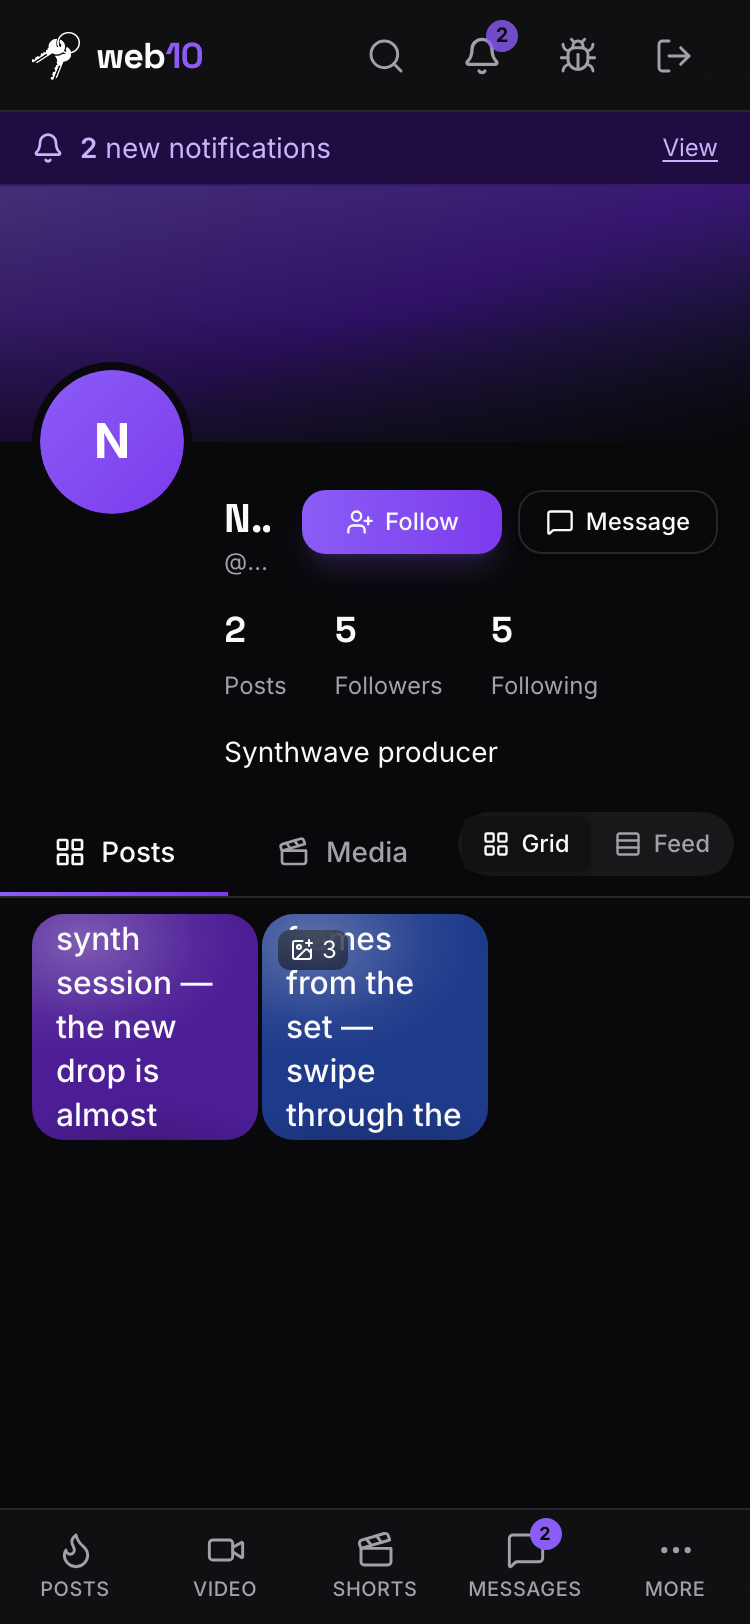
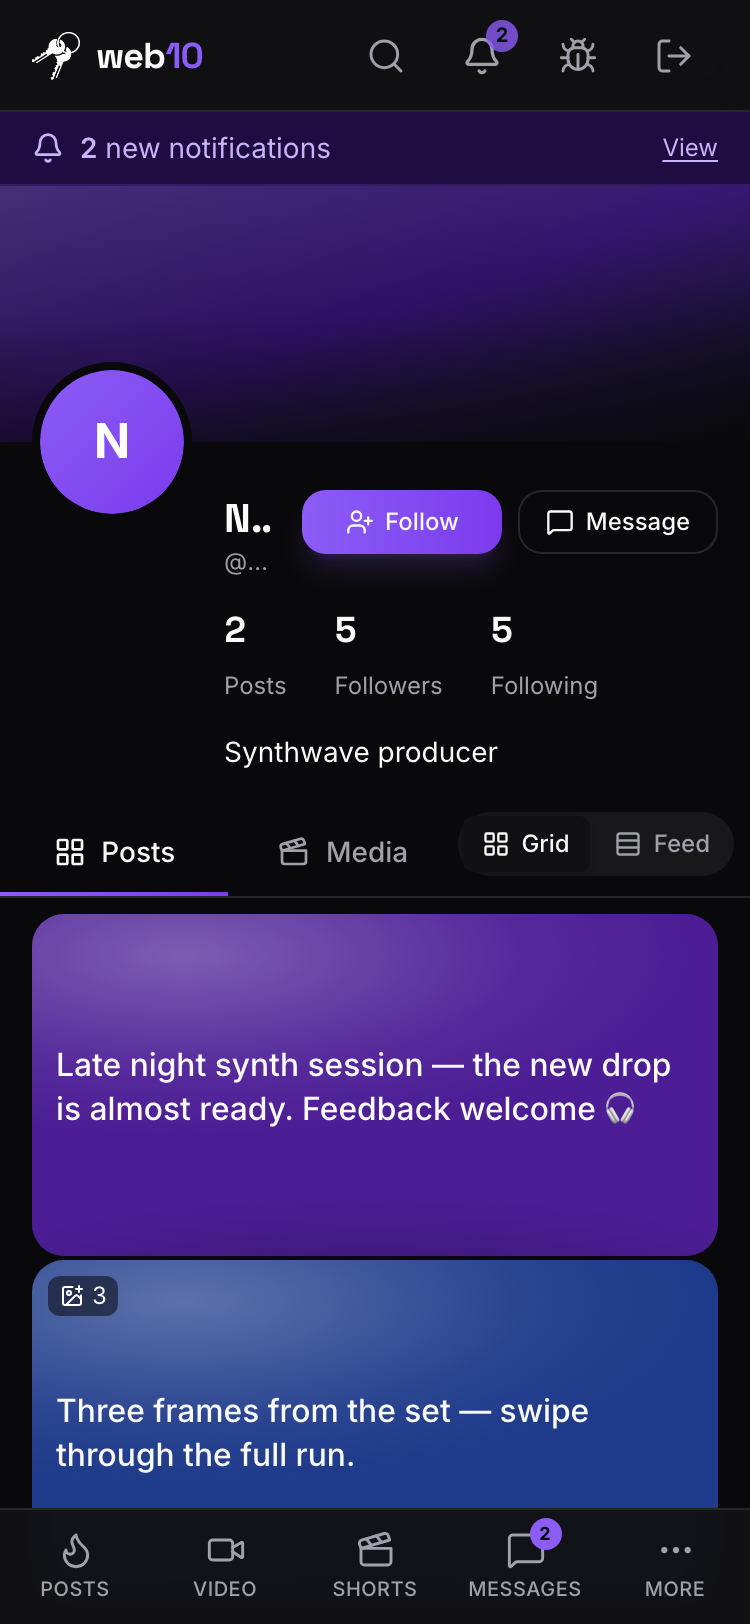
fix(web10-social): text-only profile tiles span the full row on mobile (not a cramped 1/3 square)
A text-only post in the 3-col mobile grid rendered as a ~110px square with 18px text — a car crash. Text-only tiles now span all 3 columns on mobile (col-span-3 sm:col-span-1) with a 2:1 card aspect, so the quote card has room to breathe. Media tiles stay in the 3-up grid. Desktop unchanged.

diff --git a/marketing/web10-social/src/components/Bio/UserProfileScreen.tsx b/marketing/web10-social/src/components/Bio/UserProfileScreen.tsx
@@ -127,6 +127,7 @@ interface WallTileProps {
  */
 function WallTile({ media, testId, title, caption, postId, multiCount, onClick }: WallTileProps) {
   const video = isVideo(media);
+  const isTextOnly = !media.url;
   // The text-only tile's heading: the title (D82) when present, else the
   // caption. `ariaLabel` keeps the accessible name stable.
   const heading = title || caption;
@@ -143,7 +144,12 @@ function WallTile({ media, testId, title, caption, postId, multiCount, onClick }
           onClick();
         }
       }}
-      className="relative aspect-square sm:aspect-[9/16] w-full bg-elevated overflow-hidden rounded-lg group cursor-pointer outline-none focus-visible:ring-2 focus-visible:ring-ring focus-visible:ring-inset"
+      className={cn(
+        'relative w-full bg-elevated overflow-hidden rounded-lg group cursor-pointer outline-none focus-visible:ring-2 focus-visible:ring-ring focus-visible:ring-inset',
+        isTextOnly
+          ? 'col-span-3 sm:col-span-1 aspect-[2/1] sm:aspect-[9/16]'
+          : 'aspect-square sm:aspect-[9/16]',
+      )}
     >
       {video ? (
         <video
@@ -199,7 +205,7 @@ function WallTile({ media, testId, title, caption, postId, multiCount, onClick }
               </p>
             )}
             {title && caption && (
-              <p className="mt-1.5 sm:mt-2.5 hidden sm:block text-sm text-foreground/80 leading-snug break-words line-clamp-4" data-testid={`${testId}-text-caption`}>
+              <p className="mt-1.5 sm:mt-2.5 text-xs sm:text-sm text-foreground/80 leading-snug break-words line-clamp-4" data-testid={`${testId}-text-caption`}>
                 {caption}
               </p>
             )}
